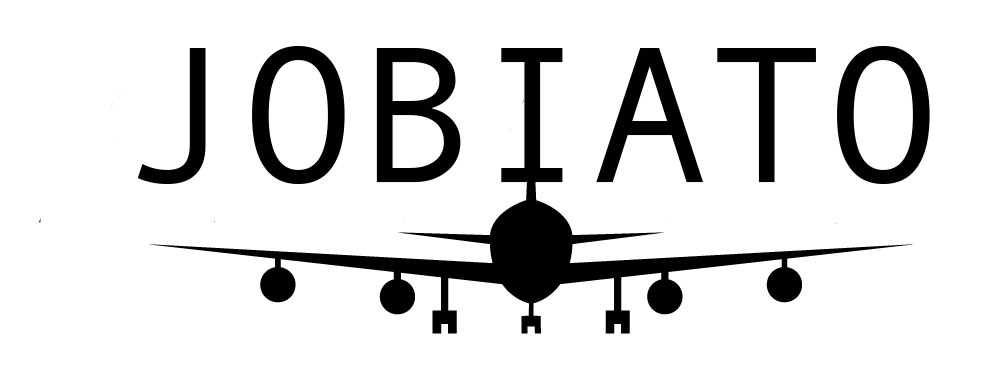
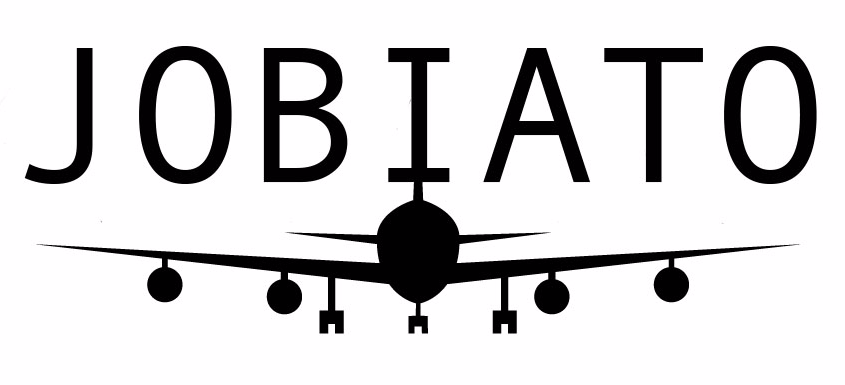
trying to bring justin changes back

diff --git a/assets/javascript/cards.js b/assets/javascript/cards.js
@@ -56,7 +56,7 @@ function generateSearchResults(apiData) {
   for (var i=0; i < jobsArray.length; i++) {
     // To make it more huamn readable, save large block of HTML as an array
     var output = [
-      "<div class='job' id='job"+i+"'>",
+      "<div class='job s12 md6' id='job"+i+"'>",
       "<div class='result card' id='"+jobsArray[i].jobkey+"' style='z-index: "+(5000-i)+";'>",
       // "<div class='card-image waves-effect waves-block waves-light'>",
       // "<img class='activator' src='http://via.placeholder.com/800x200?text=company+logo'>",
@@ -68,8 +68,8 @@ function generateSearchResults(apiData) {
       "<p><a href='"+jobsArray[i].url+"' target='_blank'>View full post</a></p>",
       "</div>",
       "<div class='card-action'>",
-      "<a class='dislikeButton text-red' href='#'><i class='material-icons'>cancel</i></a>",
-      "<a class='likeButton text-green' href='#'><i class='material-icons'>check_circle</i></a></div>",
+      "<a class='dislikeButton' href='#'><i class='material-icons'>cancel</i></a>",
+      "<a class='likeButton' href='#'><i class='material-icons'>check_circle</i></a></div>",
       "</div>",
       "</div>"
     ];
@@ -151,29 +151,21 @@ $(document).on("click", ".theSubmitButton", function(e) {
     ////////////////
     
     
-    //////////////// pushing liked cards into an array to send to firebase
+    //////////////// pushing liked cards into an array to send to firebase as a string
     var $key = $(this).closest(".job");
-    console.log("This is the key:");
-    console.log($key);
-    jobsLikedArray.push($key);
-    jobsLikedString = JSON.stringify(jobsLikedArray);
+    var str = $key.prop('outerHTML');
+    console.log(str);
+   
+   ////////////////// push stringified div into array 
+    jobsLikedArray.push(str);
     
-    // var userId = firebase.auth().currentUser.uid;
+    var userId = firebase.auth().currentUser.uid;
+    //////////////// write the array to firebase in the user's data section under their id
+    writeUserData(userId, jobsLikedArray);
     
-    // get userId from global var in firebaseAuth.js
-    // writeUserData(userId, jobsLikedArray); 
+    readUserData(userId);
     
-    database.ref("users/"+userId).update({
-        myjobs: jobsLikedString
-    });
-    
-    // NOTE: This probably needs to be in a callback somewhere.
-    // Calling these two functions right after the other will create
-    // unpredictable results. I think it'll make most sense to call this
-    // as a callback on writeUserData.
-    // readUserData(userId);
-    
-    console.log("this is the myjobsfirebase array: " + jobsLikedString);
+    console.log("this is the myjobsfirebase array: " + jobsLikedArray);
     //////////////// 
 
   }); // like button

diff --git a/assets/javascript/firebaseAuth.js b/assets/javascript/firebaseAuth.js
@@ -68,7 +68,7 @@ firebase.auth().onAuthStateChanged(firebaseUser => {
         console.log("user exists write some stuff");
       // User is signed in.
     //   writeUserData(userId,user.email);
-      database.ref("users/"+userId).update({
+      database.ref("users/"+userId).set({
         email: user.email
       });
     } else {
@@ -118,11 +118,15 @@ function googleSignout() {
 // User is signed in.
 function writeUserData(userId,myJobsArray) {
 
-    // database.ref("users/"+userId).update({
-    //     myjobs: myJobsArray
-    // });
+    database().ref("users/"+userId).update({
+        myjobs: myJobsArray
+    });
 
 }
+
+// Function to hide and unhide the content outside of the login page
+
+
 
 
 function readUserData(userId){
@@ -138,6 +142,7 @@ function readUserData(userId){
     }
 });
 };
+
 
 
 

diff --git a/index.html b/index.html
@@ -22,7 +22,7 @@
   <header>
     <nav>
     <div class="nav-wrapper">
-      <a href="#" class="brand-logo center" src="./assets/images/jobiato.jpg"></a>
+      <a href="#" class="brand-logo center"><img id="jobiatoLogo" src="./assets/images/jobiato.jpg"></img></a>
       
     </div>
   </nav>

diff --git a/assets/css/style.css b/assets/css/style.css
@@ -1,3 +1,7 @@
+nav, footer.page-footer {
+  background-color: #1770aa;
+}
+
 * {
   box-sizing: border-box;
 }
@@ -19,7 +23,12 @@ h2 {
 
 .allTabs {
   margin-top: 5px;
+}
 
+#jobiatoLogo {
+  height: 65px;
+  width: 190px;
+  border-radius: 5px;
 }
 
 #pageToggle {
